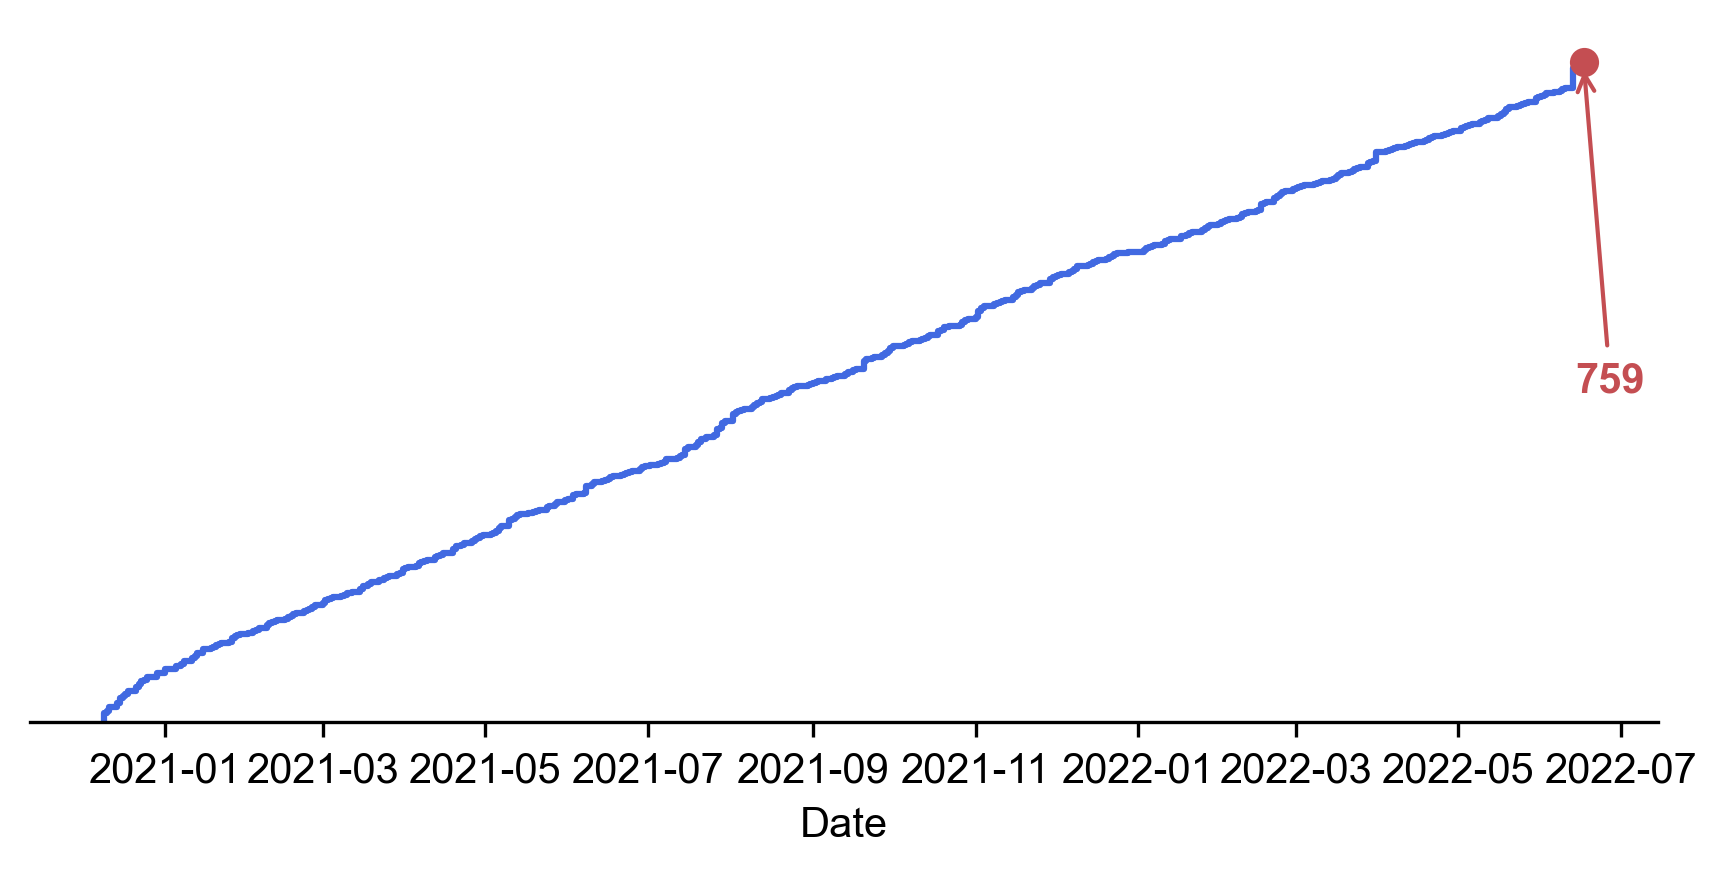
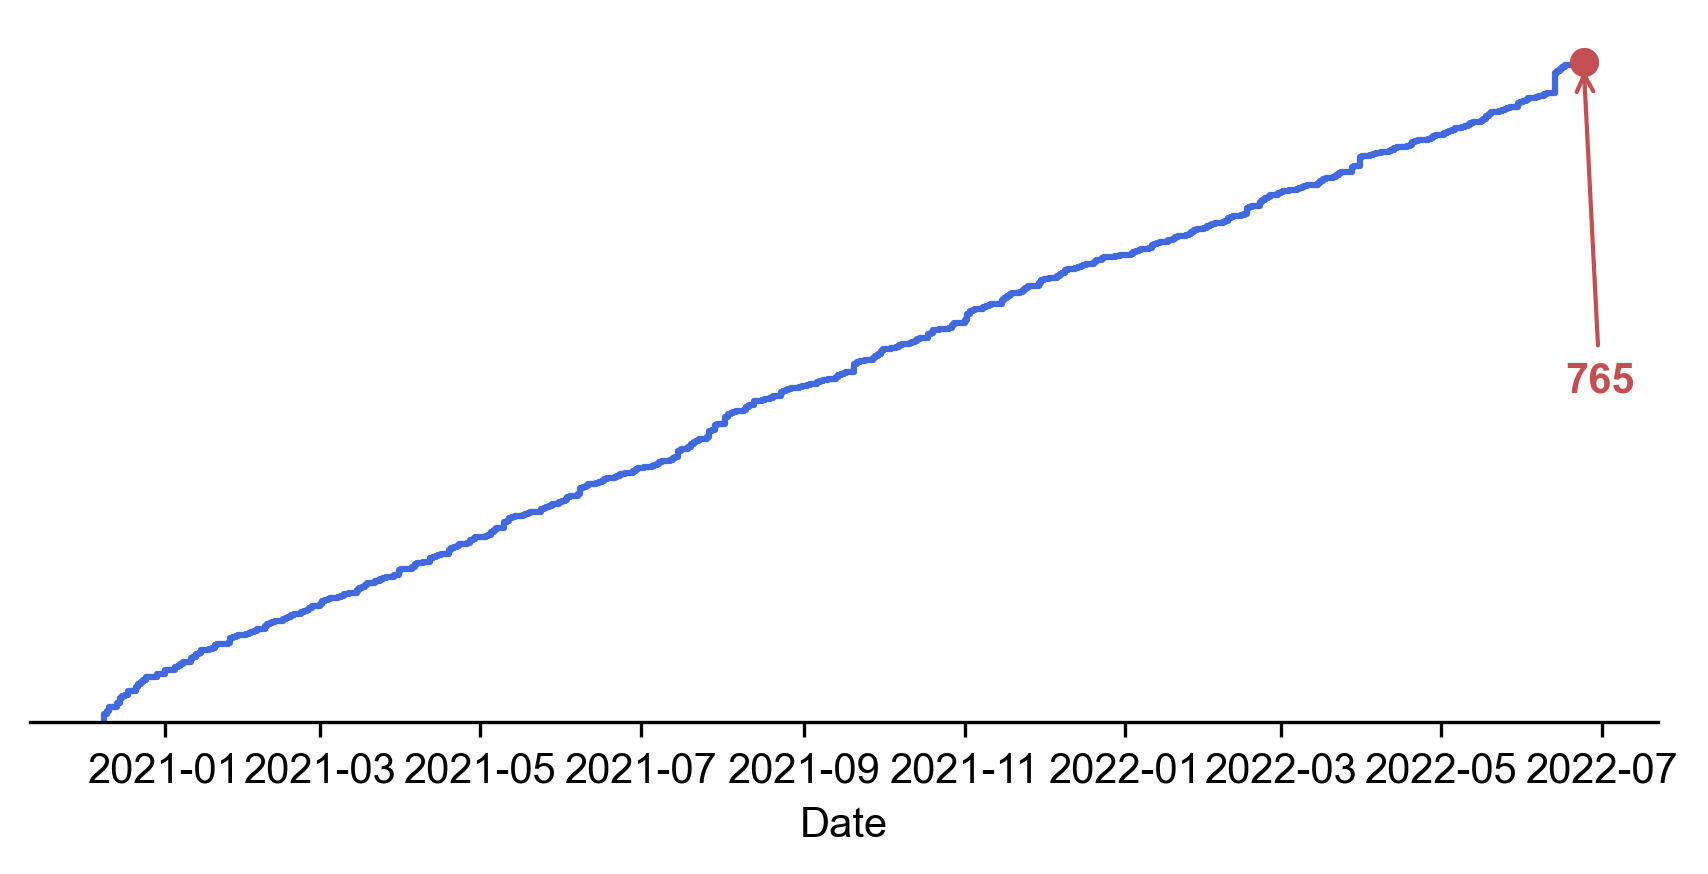
2022-06-25

diff --git a/2022/06/AstroPH-2022-06.md b/2022/06/AstroPH-2022-06.md
@@ -320,3 +320,57 @@
 
 ## 2022-06-20
 
+1. [Could the "Wow" signal have originated from a stochastic repeating beacon?](https://arxiv.org/abs/2206.08374)
+
+   > Extraterrestrial Intelligence, SETI
+
+   1977年探测到的`Wow`信号仍然是至今发现的最引人注目的SETI信号。以前的工作很大程度上排除了周期（小于40小时）重复的假设。这里假设`Wow`信号是一个二项分布，推断信号的持续时间和事件率，以及信号是一个二项分布（随机过程）的可能性。
+
+2. [The Longest Delay](https://arxiv.org/abs/2206.08597)
+
+   > Gravitational Lensing, SDSS, Galaxy, Quasar, Light Curve
+
+   推断`SDSS J1004+4112`的时间延迟，是$\Delta t_{DC}=2458.47\pm1.02\,\rm day$，是迄今为止最长的引力透镜。
+
+## 2022-06-21
+
+黑奴解放日停更。
+
+## 2022-06-22
+
+1. [Differential Astrometry with Gaia: Investigating relativistic light deflection close to Jupiter](https://arxiv.org/abs/2206.09886)
+
+   > Astrometry, Gaia, Jupiter
+
+   背景星光经过木星周围会发生偏转。在Gaia视场中，木星是一个明亮的展源，因此测量微弱的光线偏转是极为困难的。这里使用Gaia多次观测到最接近木星的明亮目标星的数据，检测到光线的相对论偏转，证明了Gaia在极端观测条件下的科学性能。
+
+2. [BURSTT: Bustling Universe Radio Survey Telescope for Taiwan](https://arxiv.org/abs/2206.08983)
+
+   > Fast Radio Burst, Telescope
+
+   湾湾提出的探测和定位FRB的望远镜阵`Bustling Universe Radio Survey Telescope for Taiwan, BURSTT`，视场$104\,\rm deg^2$，工作在$300-800\,\rm MHz$。起初由256个天线组成，之后逐渐扩展，预计每年探测到100个明亮的$>100\,\rm Jy\cdot ms$的FRB，并定位到亚角秒。
+
+   <img src="Figures/image-20220622121241496.png" alt="image-20220622121241496" style="zoom:70%;" />
+
+## 2022-06-23
+
+1. [Gaia Data Release 3: Properties of the line broadening parameter derived with the Radial Velocity Spectrometer (RVS)](https://arxiv.org/abs/2206.10986)
+
+   > Gaia, Radial Velocity, Line Broadening
+
+   Gaia DR3的RVS光谱的径向速度和线宽。DR3包括了33,812,183颗有效温度在3100K到14,500K之间的恒星的径向速度。尽管线宽与其它项目，如GALAH、APOGEE和LAMOST的一致性比较好，但是在使用这个测量值仍需谨慎。在$V\sin i$较小时，线宽被高估，$T_{\rm eff}>7500K,\ GRVS>10$时，线宽的质量和意义迅速降低。
+
+   <img src="Figures/image-20220624002123435.png" alt="image-20220624002123435" style="zoom:50%;" />
+
+## 2022-06-24
+
+1. [On the relation between duration and energy of non-repeating fast radio bursts: census with the CHIME data](https://arxiv.org/abs/2206.11330)
+
+   > Fast Radio Burst, Population
+
+   结合无监督机器学习对CHIME的目录中非重复FRB的分类，发现$z<0.3$的非重复FRB的能量和持续时间之间有微弱的相关性，这意味着或许可以从持续时间估计能量，从而提供一个新的宇宙学距离的测量方法。
+
+   <img src="Figures/image-20220624163938255.png" alt="image-20220624163938255" style="zoom:50%;" />
+
+## 2022-06-27
+
